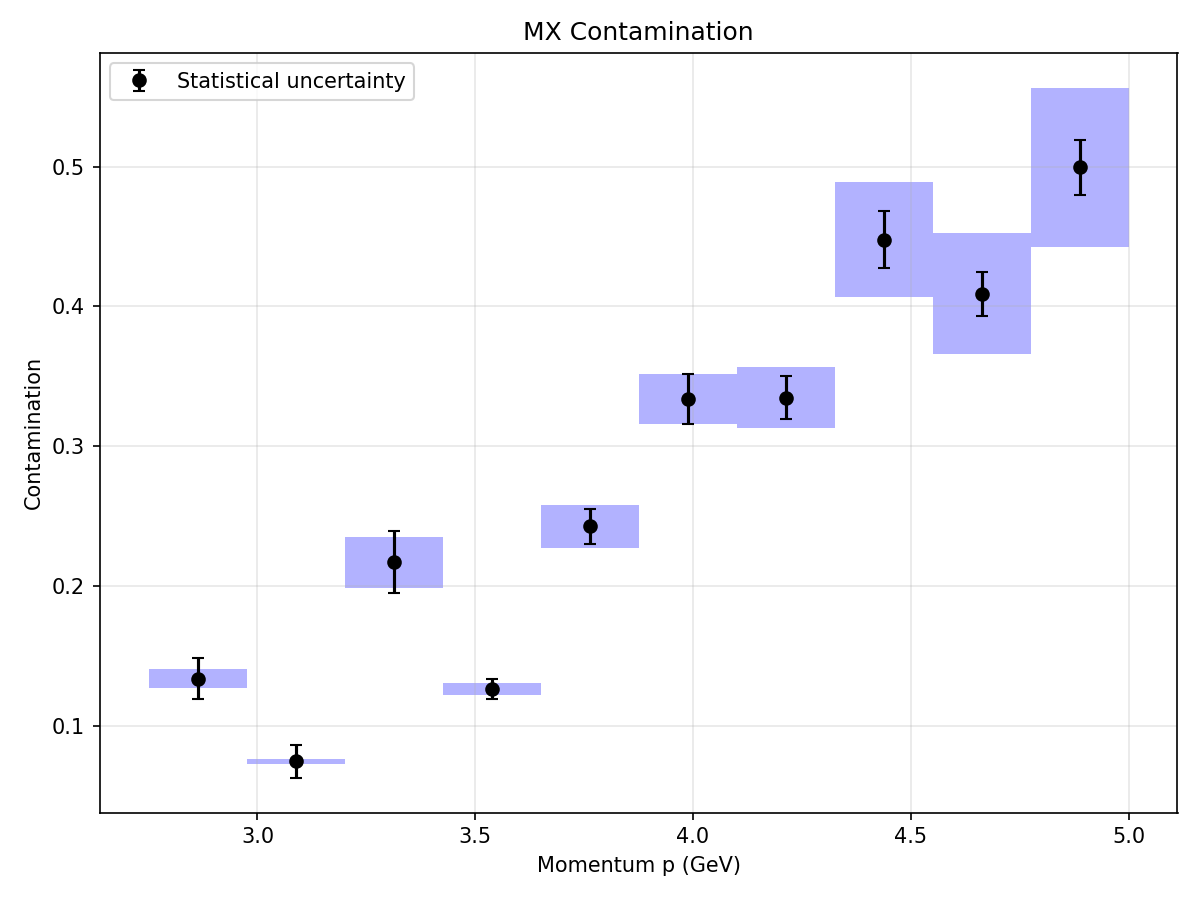
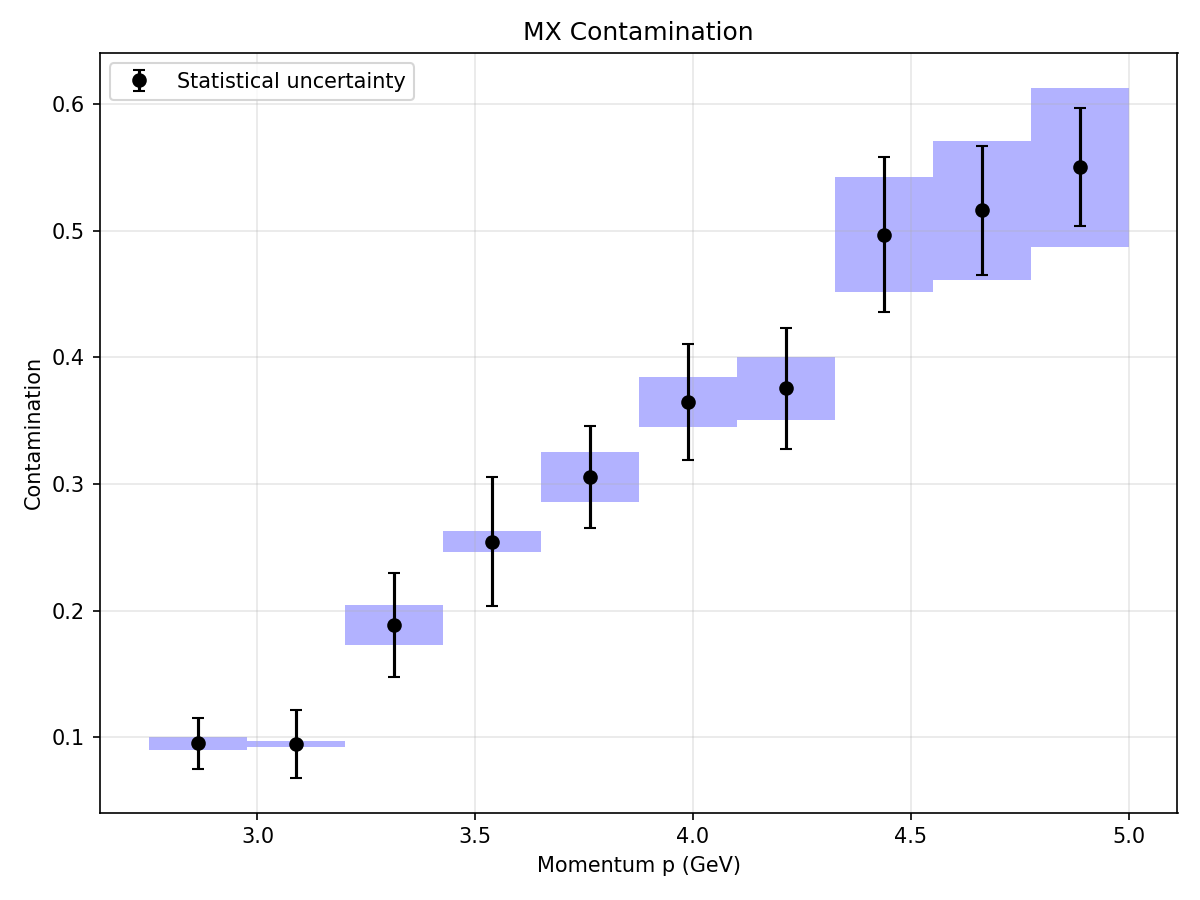
fixed systematic uncertainties

diff --git a/notebooks/uncertainty/headlineV2.py b/notebooks/uncertainty/headlineV2.py
@@ -989,9 +989,10 @@ def compute_contamination_vs_momentum(
 def compute_contamination_from_csv(
     contamination_csv,
     syst_csv,
-    p_range,
+    p_range=None,
     num_bins=10,
     syst_value_col="quadrature",
+    use_csv_binning=False,
     output_csv="contamination_from_csv.csv",
     output_png="contamination_from_csv.png",
     title="Contamination vs momentum",
@@ -1005,15 +1006,30 @@ def compute_contamination_from_csv(
         contamination_initial
         contamination_initial_err
 
-    The input CSV does not need uniform binning.
-    Uniform momentum bins are created and overlapping bins are averaged.
+    Parameters
+    ----------
+    contamination_csv : str
+        CSV containing contamination values.
 
-    The statistical uncertainty is taken directly from the input CSV:
+    syst_csv : str
+        CSV containing systematic uncertainties.
+
+    p_range : tuple
+        (p_min, p_max) range for uniform bins.
+        Ignored if use_csv_binning=True.
+
+    num_bins : int
+        Number of uniform momentum bins.
+        Ignored if use_csv_binning=True.
+
+    use_csv_binning : bool
+        If True, use the original CSV binning instead of creating
+        uniform momentum bins.
+
+    Statistical uncertainty:
         stat_err = average(contamination_initial_err)
 
-    Systematic uncertainty is loaded from syst_csv and converted into an
-    absolute contamination uncertainty for plotting:
-
+    Systematic uncertainty:
         syst_abs = contamination * syst_err
     """
 
@@ -1038,29 +1054,66 @@ def compute_contamination_from_csv(
 
     syst_df = pd.read_csv(syst_csv)
 
-    p_min, p_max = p_range
 
-    p_edges = np.linspace(
-        p_min,
-        p_max,
-        num_bins + 1
-    )
+    # -------------------------------------------------
+    # Determine output bins
+    # -------------------------------------------------
+
+    if use_csv_binning:
+
+        bins = (
+            df[["p_lo", "p_hi"]]
+            .drop_duplicates()
+            .sort_values("p_lo")
+            .values
+        )
+
+    else:
+
+        if p_range is None:
+            raise ValueError(
+                "p_range must be provided when use_csv_binning=False"
+            )
+
+        p_min, p_max = p_range
+
+        p_edges = np.linspace(
+            p_min,
+            p_max,
+            num_bins + 1
+        )
+
+        bins = [
+            (p_edges[i], p_edges[i+1])
+            for i in range(num_bins)
+        ]
+
 
     results = []
 
-    for i in range(num_bins):
 
-        p_lo = p_edges[i]
-        p_hi = p_edges[i + 1]
+    # -------------------------------------------------
+    # Loop over bins
+    # -------------------------------------------------
 
-        # --------------------------------
-        # Find overlapping input bins
-        # --------------------------------
+    for p_lo, p_hi in bins:
 
-        overlap = df[
-            (df["p_lo"] < p_hi) &
-            (df["p_hi"] > p_lo)
-        ]
+
+        if use_csv_binning:
+
+            # Exact CSV bin
+            overlap = df[
+                (df["p_lo"] == p_lo) &
+                (df["p_hi"] == p_hi)
+            ]
+
+        else:
+
+            # Average overlapping CSV bins
+            overlap = df[
+                (df["p_lo"] < p_hi) &
+                (df["p_hi"] > p_lo)
+            ]
 
 
         if len(overlap) > 0:
@@ -1079,9 +1132,9 @@ def compute_contamination_from_csv(
             stat_err = np.nan
 
 
-        # --------------------------------
+        # -------------------------------------------------
         # Systematic uncertainty
-        # --------------------------------
+        # -------------------------------------------------
 
         syst_overlap = syst_df[
             (syst_df["p_lo"] < p_hi) &
@@ -1126,9 +1179,9 @@ def compute_contamination_from_csv(
     print(f"Saved table to {output_csv}")
 
 
-    # --------------------------------
+    # -------------------------------------------------
     # Plot
-    # --------------------------------
+    # -------------------------------------------------
 
     fig, ax = plt.subplots(
         figsize=(8,6)
@@ -1137,10 +1190,7 @@ def compute_contamination_from_csv(
     from matplotlib.patches import Rectangle
 
 
-    # --------------------------------
-    # Systematic uncertainty boxes
-    # --------------------------------
-
+    # Systematic boxes
     for _, row in result_df.iterrows():
 
         if (
@@ -1149,9 +1199,6 @@ def compute_contamination_from_csv(
         ):
             continue
 
-
-        # Convert relative systematic uncertainty
-        # into an absolute contamination uncertainty
 
         syst_abs = (
             row["contamination"] *
@@ -1174,11 +1221,7 @@ def compute_contamination_from_csv(
         ax.add_patch(rect)
 
 
-
-    # --------------------------------
-    # Statistical uncertainty points
-    # --------------------------------
-
+    # Statistical errors
     ax.errorbar(
         result_df["p_center"],
         result_df["contamination"],
@@ -1211,9 +1254,7 @@ def compute_contamination_from_csv(
 
     ax.legend()
 
-
     fig.tight_layout()
-
 
     fig.savefig(
         output_png,
@@ -1221,7 +1262,6 @@ def compute_contamination_from_csv(
     )
 
     plt.close(fig)
-
 
     print(
         f"Saved plot to {output_png}"
@@ -1329,25 +1369,22 @@ contamination_Mc = compute_contamination_vs_momentum(
     title="Contamination with total systematic error, MC",
 )
 
+contamination_Mx = compute_contamination_from_csv(
+    contamination_csv="epiN_contamination_binned_PLOTTING.csv",
+    syst_csv="pngs/uncertainty_vs_momentum_MX.csv",
+    use_csv_binning=True,
+    output_csv="pngs/contamination_MX_from_csv.csv",
+    output_png="pngs/contamination_MX_from_csv.png",
+    title="MX Contamination",
+)
 
 
 contamination_RICH = compute_contamination_from_csv(
     contamination_csv="rich_contamination_binned.csv",
     syst_csv="pngs/uncertainty_vs_momentum_RICH.csv",
-    p_range=(2.75,5.0),
-    num_bins=10,
+    p_range=(2.75, 5),
     output_csv="pngs/contamination_with_syst_RICH.csv",
     output_png="pngs/contamination_with_syst_RICH.png",
     title="Contamination with total systematic error, RICH",
 )
 
-
-contamination_Mx = compute_contamination_from_csv(
-    contamination_csv="mx_width_sensitivity.csv",
-    syst_csv="pngs/uncertainty_vs_momentum_MX.csv",
-    p_range=(2.75, 5.0),
-    num_bins=10,
-    output_csv="pngs/contamination_MX_from_csv.csv",
-    output_png="pngs/contamination_MX_from_csv.png",
-    title="MX Contamination",
-)

diff --git a/notebooks/data_application_scripts/epiN_analysis.py b/notebooks/data_application_scripts/epiN_analysis.py
@@ -1543,6 +1543,36 @@ plt.close(fig)
 
 print("MC vs epiN-truth overlay plot saved")
 
+# ------------------------------------------------------------
+# Save contamination results as CSV
+# ------------------------------------------------------------
 
+contamination_rows = []
+
+for i in range(n_theta):
+
+    for j in range(n_p):
+
+        contamination_rows.append({
+            "p_lo": pEdges[j],
+            "p_hi": pEdges[j+1],
+            "contamination_initial": con[i][j],
+            "contamination_initial_err": con_er[i][j],
+            "theta_lo": tEdges[i],
+            "theta_hi": tEdges[i+1],
+        })
+
+
+contamination_df = pd.DataFrame(contamination_rows)
+
+contamination_csv = "../uncertainty/" + "epiN_contamination_binned_PLOTTING.csv"
+
+contamination_df.to_csv(
+    contamination_csv,
+    index=False
+)
+
+print(f"Saved contamination CSV: {contamination_csv}")
+print(contamination_df)
 
 

diff --git a/notes/project_summary.md b/notes/project_summary.md
@@ -95,7 +95,7 @@ The RICH RQ had signifigant effect on the systematic uncertainty, future studies
 The next plots are for the exclusive epi(N) reaction validations:
 
 ![Main plot](../notebooks/uncertainty/pngs/uncertainty_vs_momentum_MX.png)
-![Main plot](../notebooks/uncertainty/pngs/contamination_with_syst_MX.png)
+![Main plot](../notebooks/uncertainty/pngs/contamination_MX_from_csv.png)
 
 The systematic uncertainty is highly sensitive to the Mx fitting window, epiN_analysis.py should be used to exam each individual fit when interpreting results during development.
 
